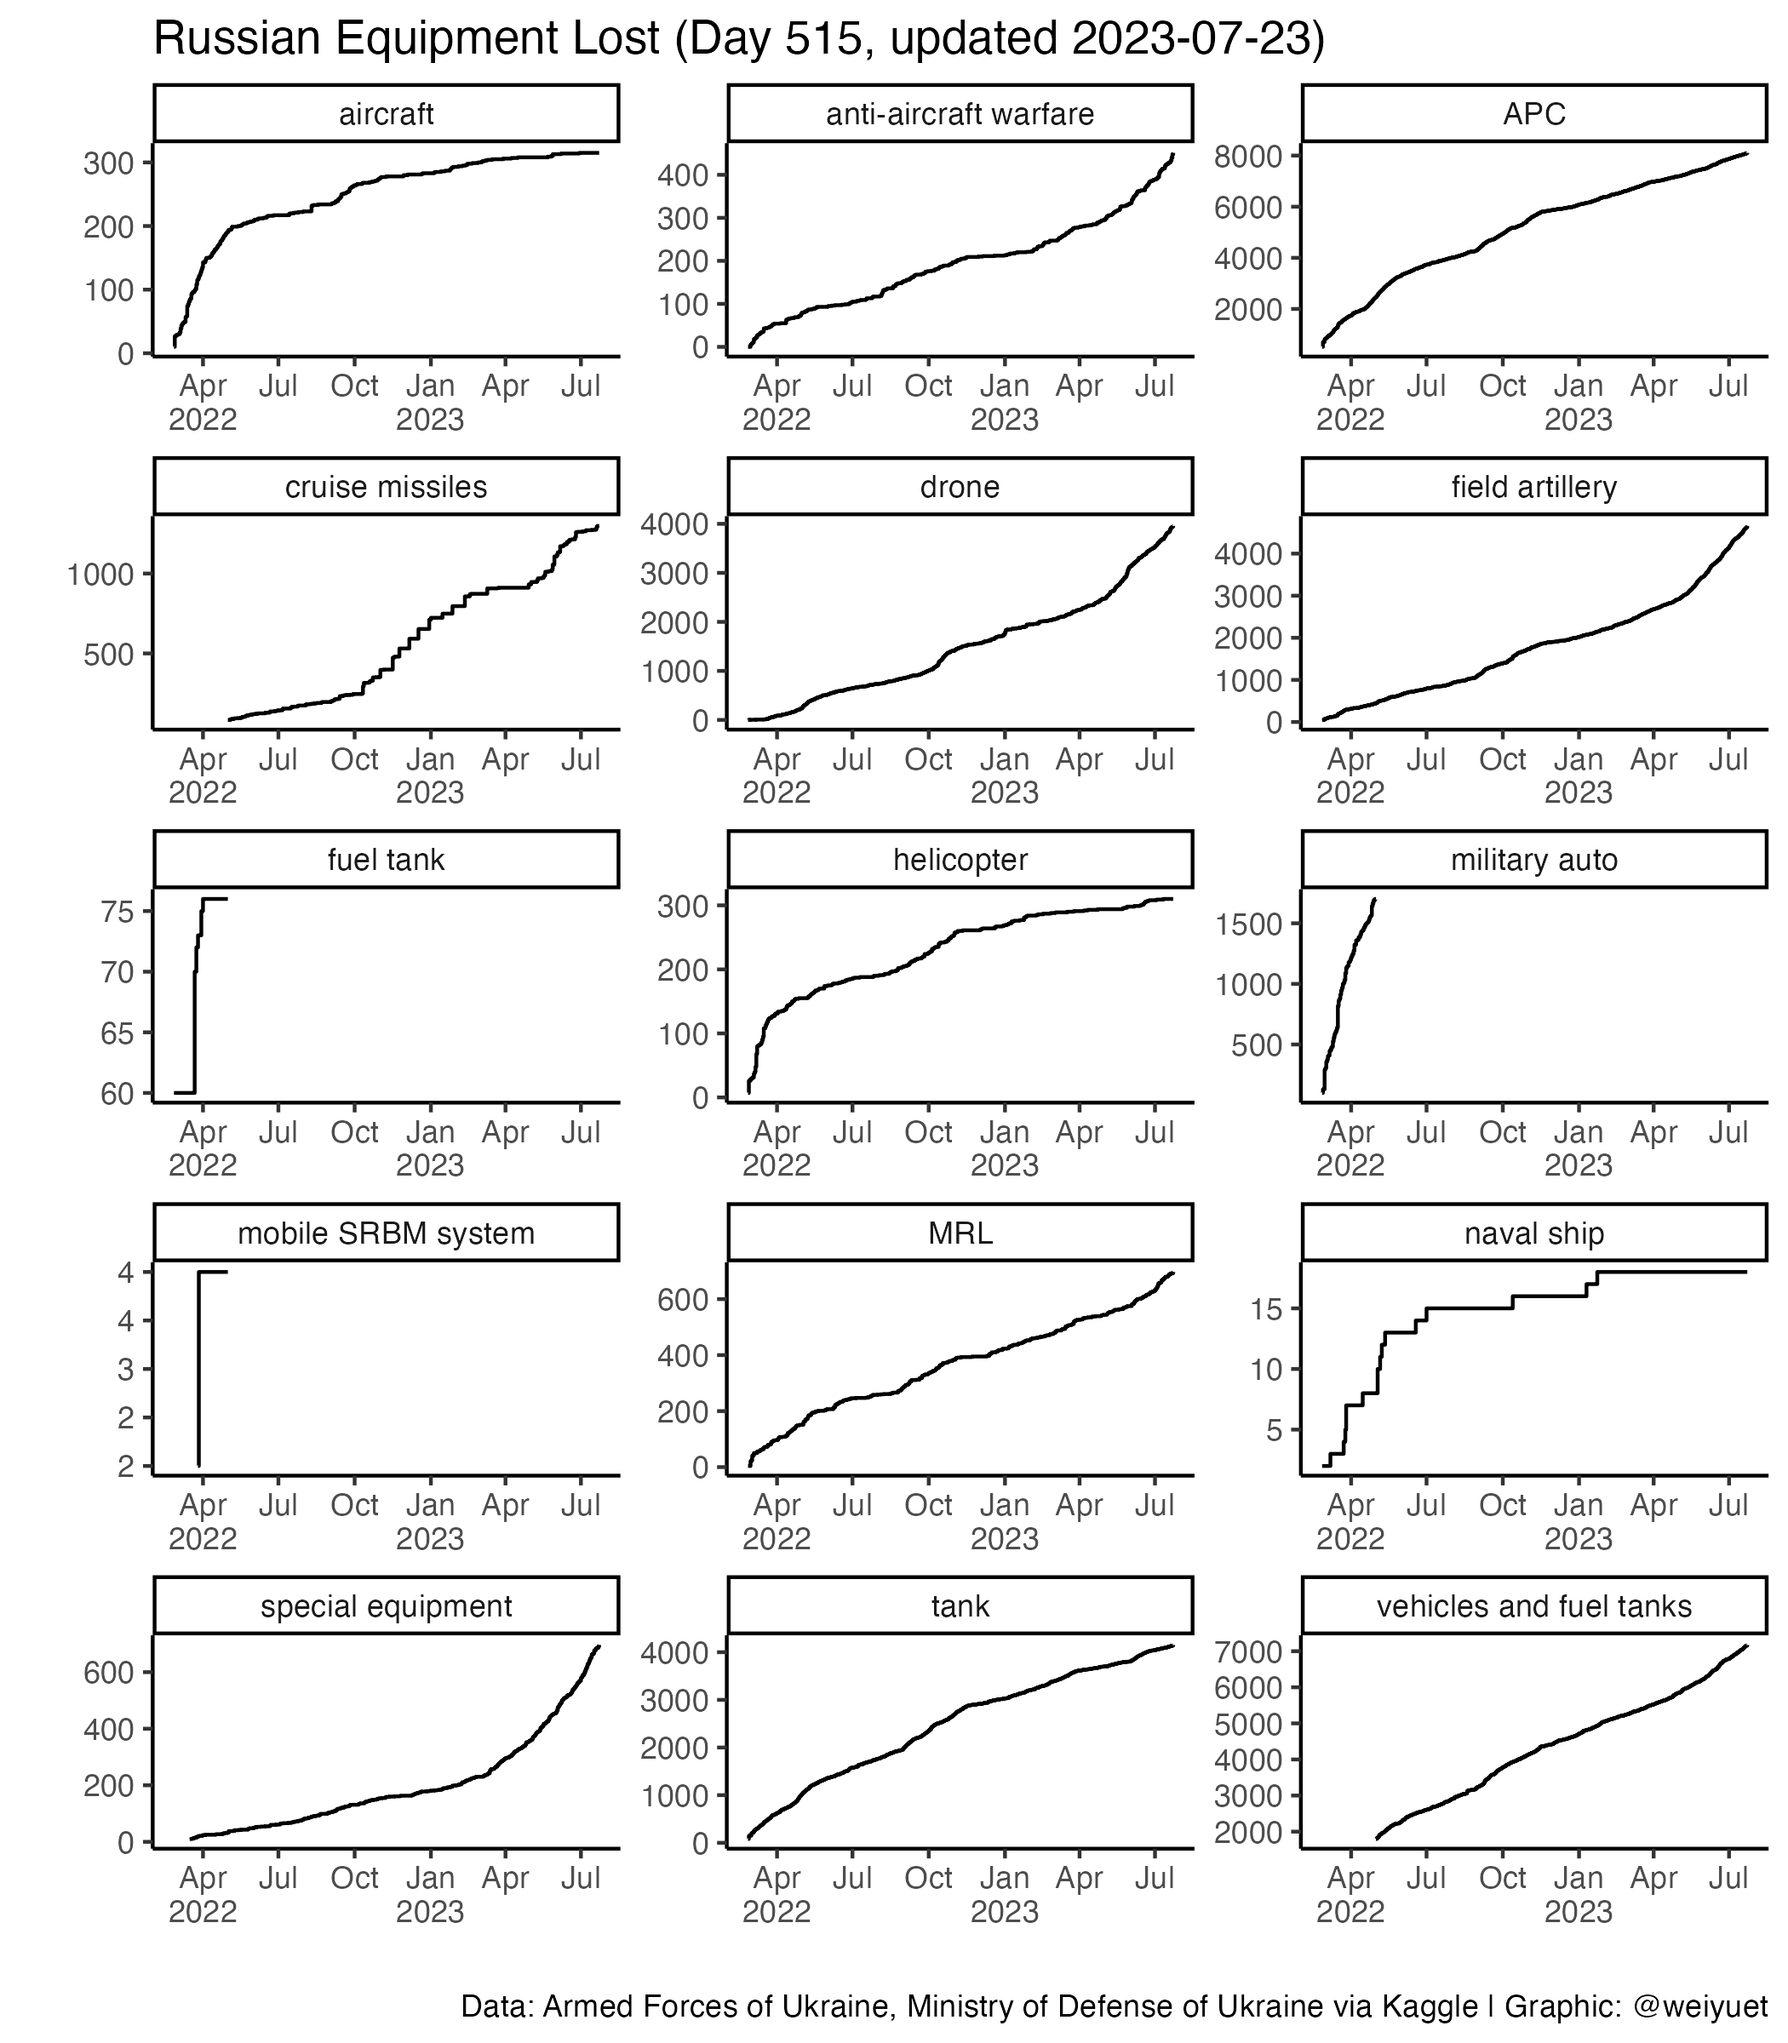
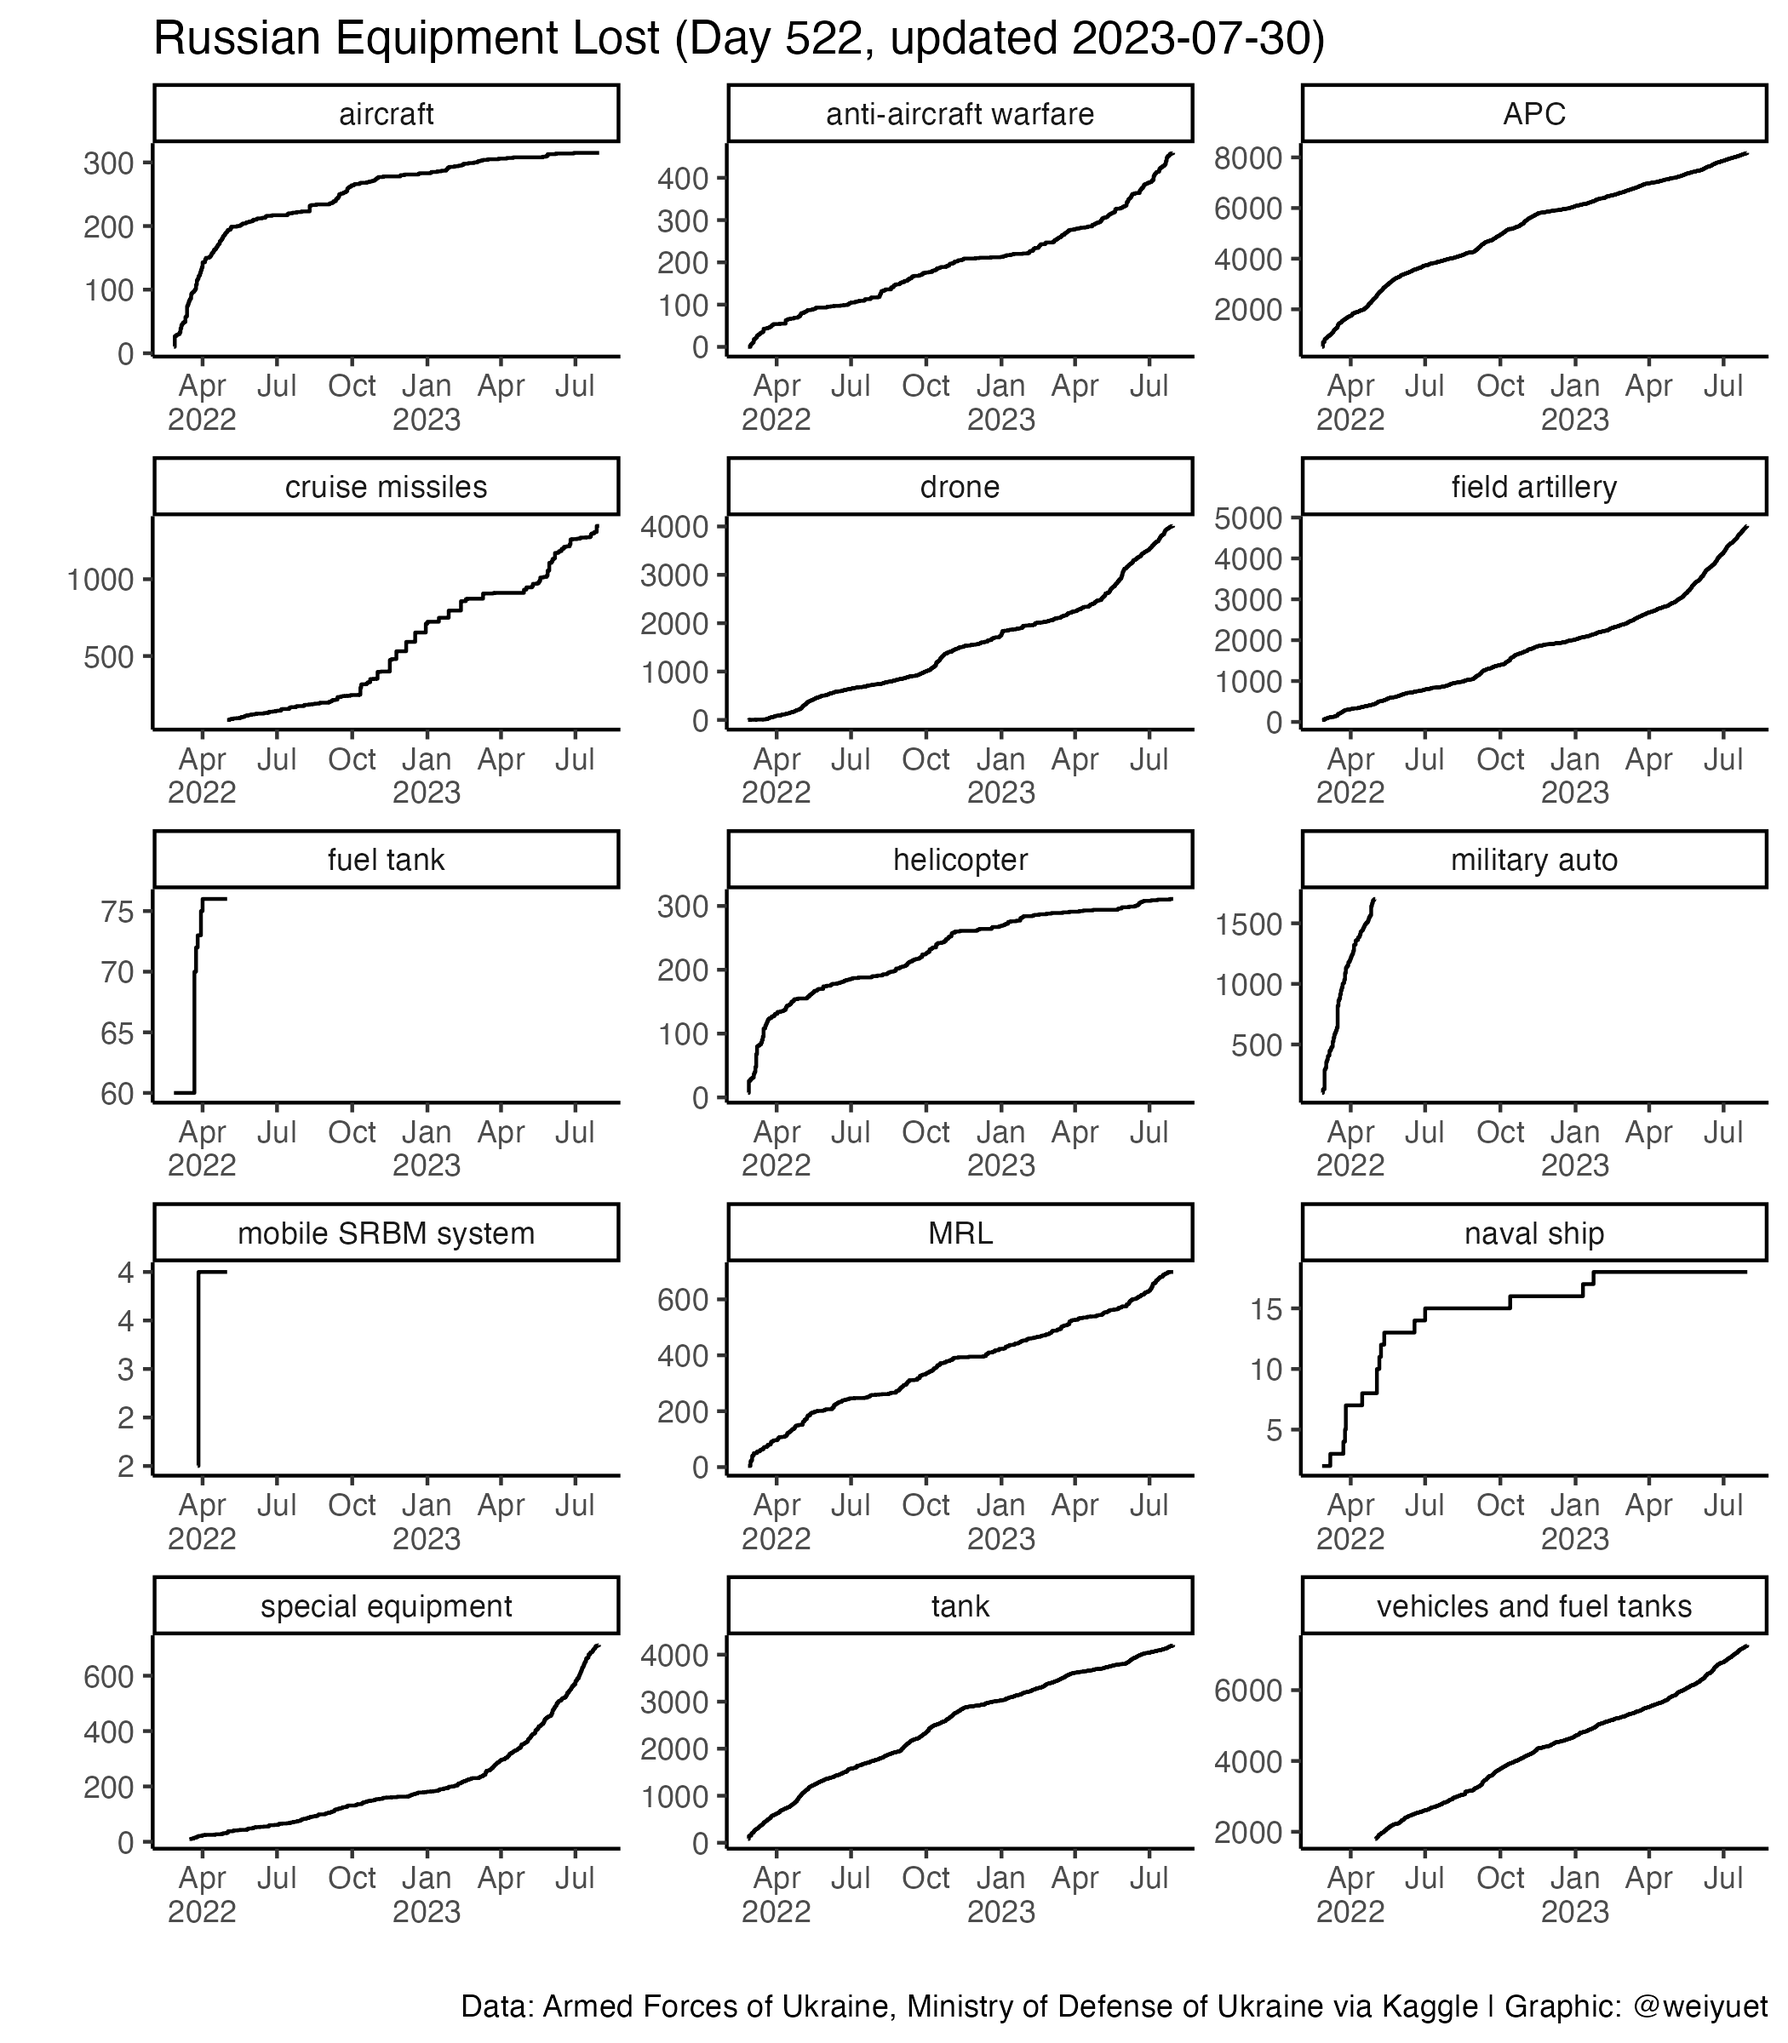
Updated 30 July

diff --git a/README.md b/README.md
@@ -6,7 +6,7 @@ Wong Wei Yuet 2022-05-26
 
   - War casualty data updated daily from [`Petro Ivanyuk's Kaggle`](https://www.kaggle.com/datasets/piterfm/2022-ukraine-russian-war). All data is official and put together by `Petro`
 
-Updated: 2023-07-25
+Updated: 2023-07-30
 
 ## Summary of Conflict
 
